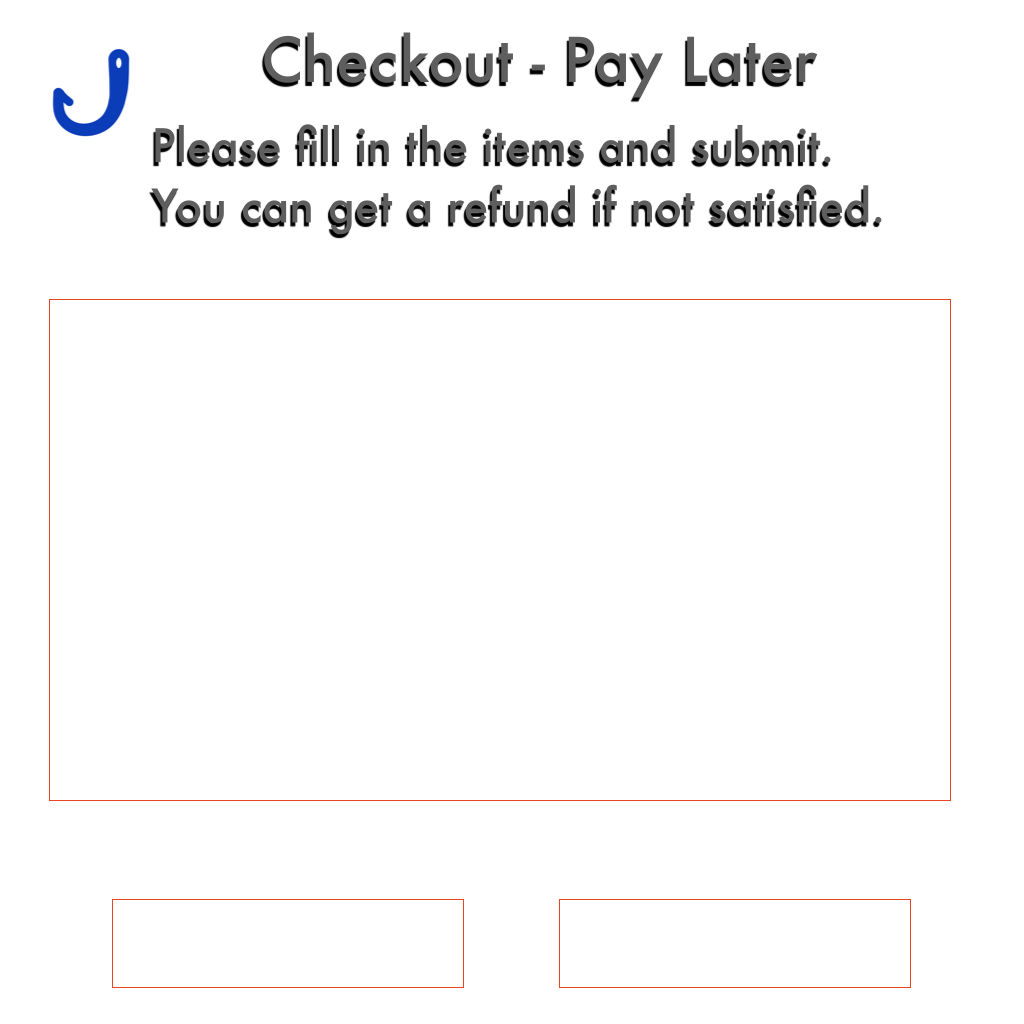
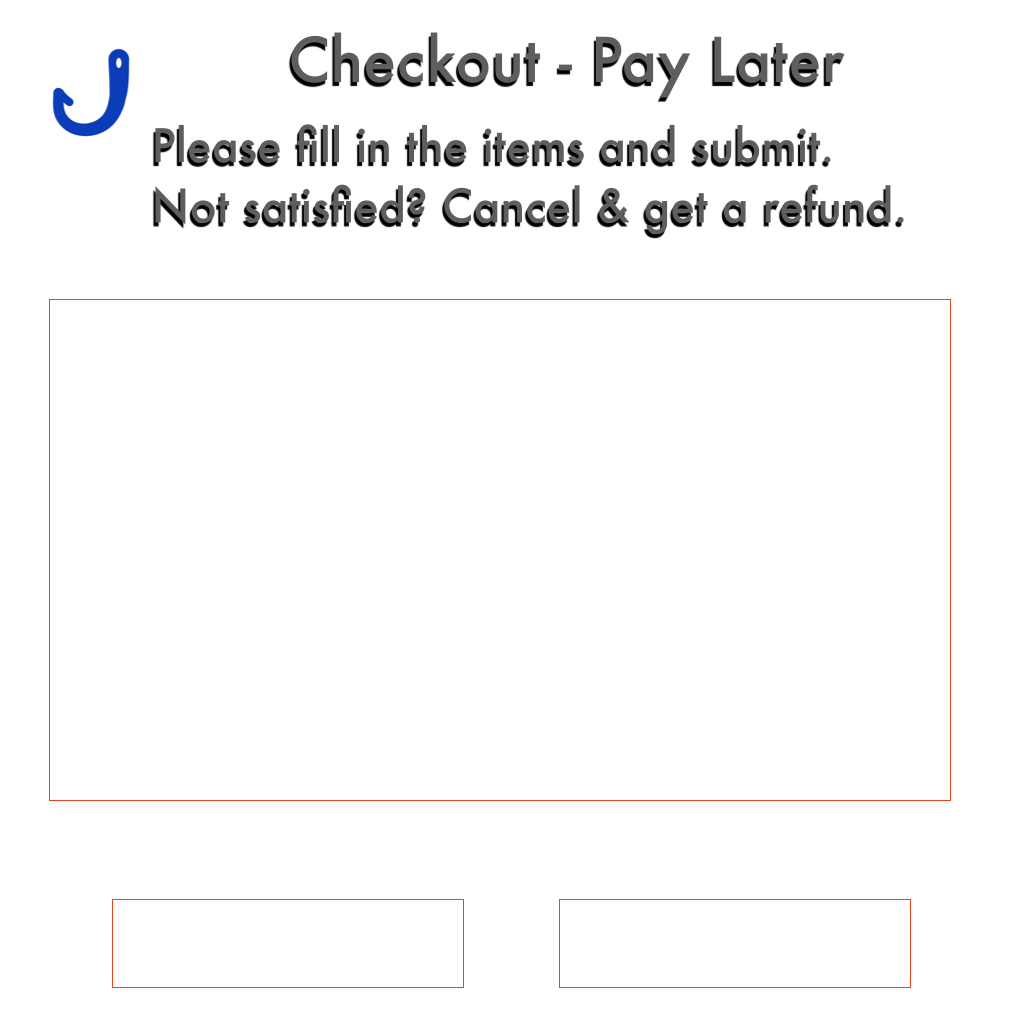
evaluationfix

Changed region(s): [[0.25, 0.0312, 0.8438, 0.0938], [0.125, 0.1562, 0.875, 0.25]]

diff --git a/billing/checkout.go b/billing/checkout.go
@@ -46,10 +46,14 @@ func declareCheckoutForm(session *drawing.Session) {
 		pattern := metadata.OrderPattern
 		sample := fmt.Sprintf(pattern, "\vExample Buyer Inc.�", "\v111 S Ave, San Fransisco, CA, 55555, USA", "\vinfo@example.com", "\v10", metadata.UnitPrice, "USD 10")
 		drawing.DeclareTextField(session, OrderText, drawing.ActiveContent{Text: sample, Lines: 12, Editable: true, FontColor: drawing.Black, BackgroundColor: drawing.White, Alignment: 1})
-		drawing.DeclareTextField(session, BackButton, drawing.ActiveContent{Text: "    Back    ", Lines: 1, Selectable: false, Editable: false, FontColor: drawing.Black, BackgroundColor: drawing.White, Alignment: 0})
-		drawing.DeclareTextField(session, OrderButton, drawing.ActiveContent{Text: "Send Invoice", Lines: 1, Selectable: false, Editable: false, FontColor: drawing.Black, BackgroundColor: drawing.White, Alignment: 0})
+		drawing.DeclareTextField(session, BackButton, drawing.ActiveContent{Text: "    Cancel    ", Lines: 1, Selectable: false, Editable: false, FontColor: drawing.Black, BackgroundColor: drawing.White, Alignment: 0})
+		drawing.DeclareTextField(session, OrderButton, drawing.ActiveContent{Text: "    Submit    ", Lines: 1, Selectable: false, Editable: false, FontColor: drawing.Black, BackgroundColor: drawing.White, Alignment: 0})
 
 		session.SignalClicked = func(session *drawing.Session, i int) {
+			if i == BackButton {
+				session.Redirect = "/"
+				session.SelectedBox = -1
+			}
 			if i == OrderButton {
 				s := session.Text[OrderText].Text
 				s = strings.ReplaceAll(s, "�", "")
@@ -113,7 +117,7 @@ func declareCheckoutForm(session *drawing.Session) {
 			if !englang.IsNumber(amount) {
 				err = fmt.Errorf("not an amount")
 			}
-			if unit != metadata.UnitPrice {
+			if strings.ReplaceAll(unit, "�", "") != metadata.UnitPrice {
 				err = fmt.Errorf("cannot change unit price")
 			}
 			if err != nil {

diff --git a/englang/verify.go b/englang/verify.go
@@ -220,13 +220,14 @@ func Evaluate(s string) string {
 			unit := ""
 			value := uint64(0)
 			residual := int(0)
+			dot := false
 			for _, c := range factor {
 				if (c >= 'a' && c <= 'z') || (c >= 'A' && c <= 'Z') {
 					unit = unit + string(c)
 				}
 				if c >= '0' && c <= '9' {
 					value = value*10 + uint64(c-'0')
-					if residual > 0 {
+					if dot {
 						residual = residual + 1
 					}
 				}
@@ -234,7 +235,7 @@ func Evaluate(s string) string {
 					continue
 				}
 				if c == '.' {
-					residual = 1
+					dot = true
 				}
 			}
 			evaluatedUnit = evaluatedUnit + unit
@@ -248,7 +249,7 @@ func Evaluate(s string) string {
 		}
 		s = fmt.Sprintf("%s %d", evaluatedUnit, evaluatedValue)
 		if evaluatedResidual > 0 {
-			s = s[:len(s)+1-evaluatedResidual] + "." + s[len(s)+1-evaluatedResidual:]
+			s = s[:len(s)-evaluatedResidual] + "." + s[len(s)-evaluatedResidual:]
 		}
 	}
 	return s

diff --git a/correspondence/correspondence.go b/correspondence/correspondence.go
@@ -15,12 +15,13 @@ import (
 
 // This is just a package to show a user interface concept.
 // The basic design is that you find what you need right away.
-// Modern software was designed to swipes, moves, and scrolls
+// Modern software was designed to use swipes, drags, and scrolls
 // to showcase the superiority of newer and newer semiconductor
-// components.
+// components over the preceding generation of such products.
+// Moore's Law and growth helped to fund research for a long time.
 //
-// Some customers on the other hand need the right information, now.
-// It is a connector that can attach people, documents, and tasks
+// Some customers on the other hand need the right information, right there.
+// It is a connector that can attach people, documents, and tasks.
 
 func SetupCorrespondence() {
 	http.HandleFunc("/correspondence.html", func(w http.ResponseWriter, r *http.Request) {
